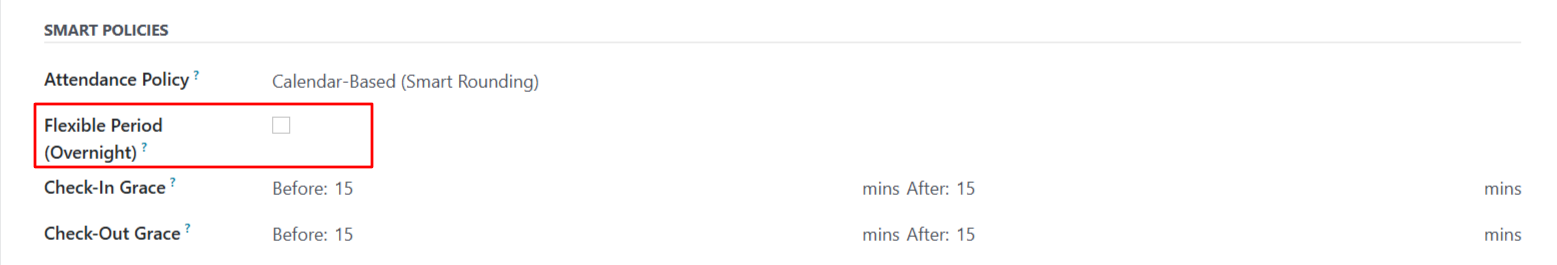
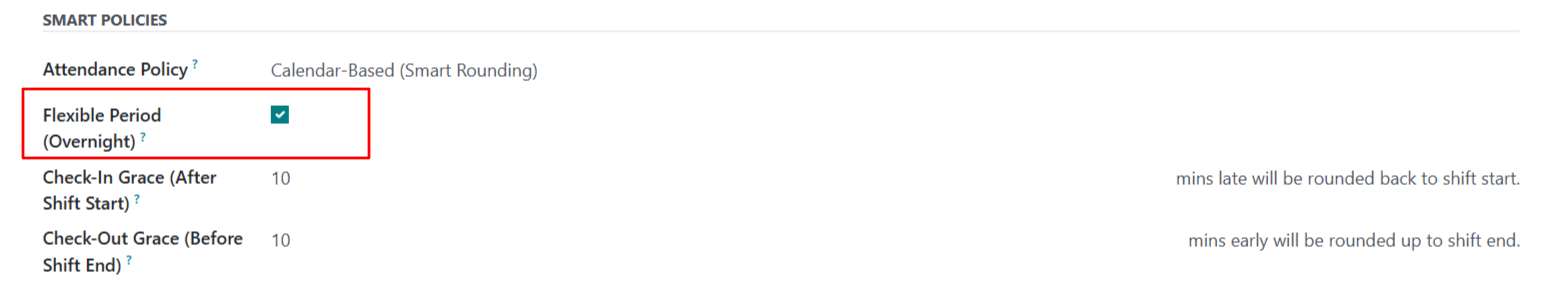
corrected index according to latest modification

diff --git a/cr_zkteco_biometric_integration/static/description/index.html b/cr_zkteco_biometric_integration/static/description/index.html
@@ -695,6 +695,20 @@
                     <div class="col-12 col-md-12">
                         <ul style="font-size: 22px;">
                             <li>
+                                Go to <b>Settings</b> >> <b>Users &amp; Companies</b> >> <b>Users</b> and open the user to whom you want to grant access for synchronizing biometric User data with devices.
+                            </li>
+                            <img src="images/users.png" alt="" class="img img-fluid shadow-lg mx-auto mt-4 mb-5"
+                                    loading="lazy"
+                                    style="border: 1px solid rgb(242, 238, 247); border-radius: 11px;"/>
+                            <li>
+                                There turn on the <b>Can Edit Biometric Data</b> option and save the user record. This will allow the user to synchronize user data between Odoo and the devices.
+                            </li>
+                            <img src="images/admin access rights.png" alt="" class="img img-fluid shadow-lg mx-auto mt-4 mb-5"
+                                    loading="lazy"
+                                    style="border: 1px solid rgb(242, 238, 247); border-radius: 11px;"/>
+                        </ul>
+                        <ul style="font-size: 22px;">
+                            <li>
                                 Go to <b>Attendances</b> >> <b>Biometric Configuration</b> >> <b>Devices</b> to view and manage all connected biometric devices in one place.
                             </li>
                             <img src="images/device menu.png" alt="" class="img img-fluid shadow-lg mx-auto mt-4 mb-5"
@@ -848,7 +862,7 @@
                                     loading="lazy"
                                     style="border: 1px solid rgb(242, 238, 247); border-radius: 11px;"/>
                             <li>
-                                You can configure <b>Check-In Grace Before/After</b> and <b>Check-Out Grace Before/After</b> in minutes. For example, if an employee checks in 10 minutes late and the allowed grace period after check-in is 10 minutes, it will still be counted as on-time. Similarly, if an employee checks out 10 minutes early and the allowed grace period before check-out is 10 minutes, it will also be treated as an on-time checkout.
+                                You can configure <b>Check-In Grace</b> and <b>Check-Out Grace</b> in minutes. For example, if an employee checks in 10 minutes late and the allowed grace period for check-in is 10 minutes, it will still be counted as on-time. Similarly, if an employee checks out 10 minutes early and the allowed grace period for check-out is 10 minutes, it will also be treated as an on-time checkout.
                             </li>
                         </ul>
 